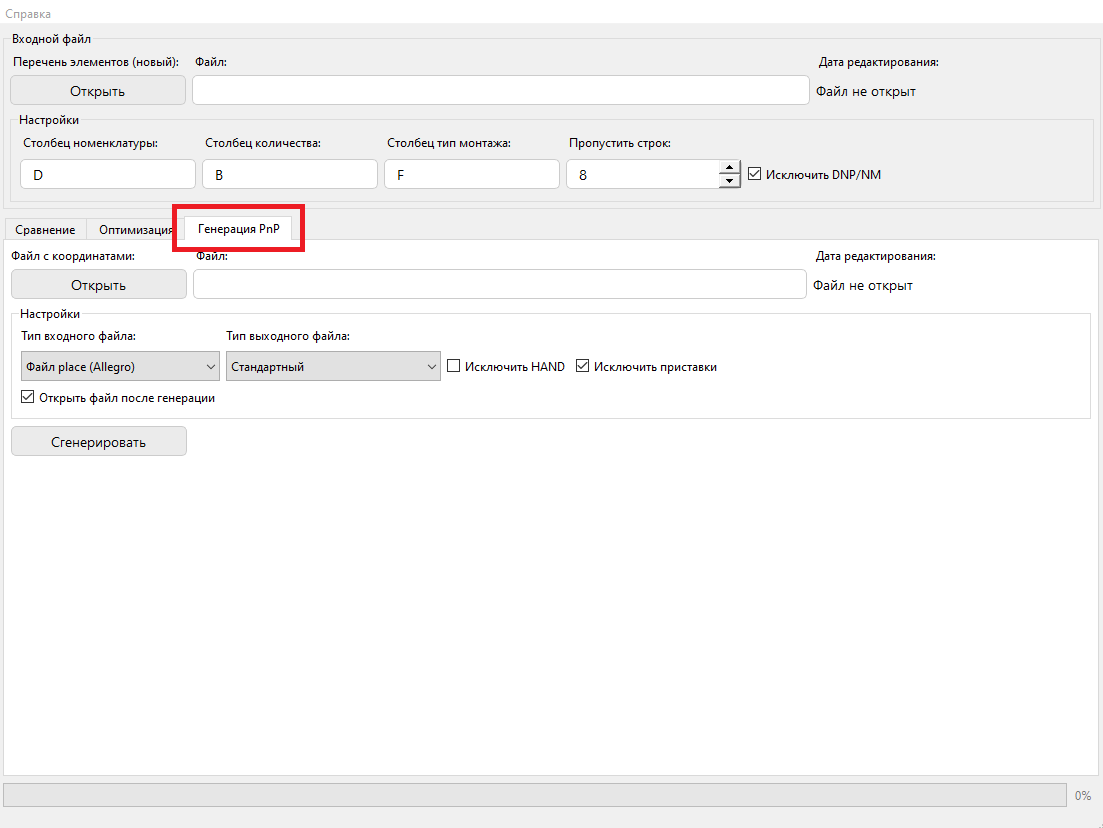
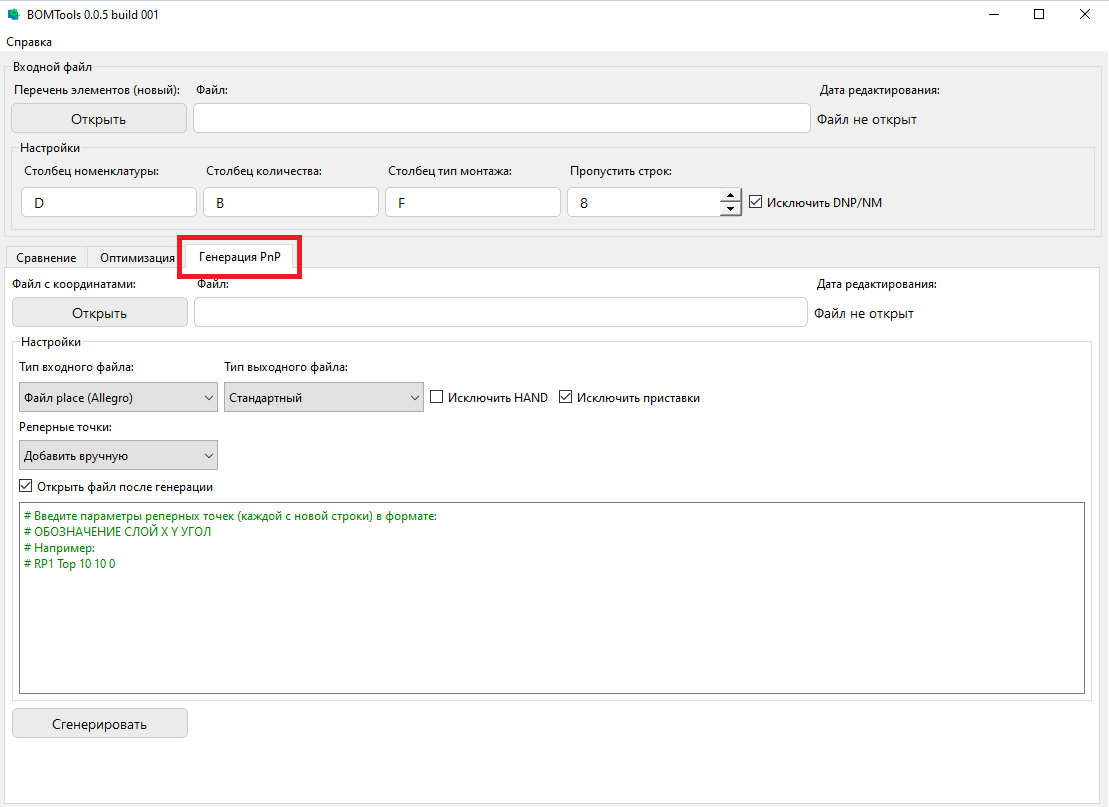
doc: help updated

diff --git a/help/help.html b/help/help.html
@@ -3,7 +3,7 @@
 <head>
     <meta charset="UTF-8">
     <meta name="viewport" content="width=device-width, initial-scale=1.0">
-    <title>Справка по функционалу программы</title>
+    <title>Руководство пользователя</title>
     <style>
         :root {
             --dark-blue: #1e293b;
@@ -167,6 +167,12 @@
 				<li>Выбрать необходимые настройки</li>
 					<img src="images/set2.png" alt="Скриншот set2" width="100%" style="display: block; margin-bottom: 20px;">
 					<div><strong>"Исключить HAND"</strong> - исключает из итогового файла ручной монтаж. <strong>"Исключить приставки"</strong> - исключает из итогового файла приставки типа "C-", "D-", "R-" и подобные.</div><br>
+                    <div>Программа поддерживает добавление реперных точек в выходной файл. Это возможно вручную (указав их в текстовом поле) либо автоматически. Чтобы добавить вручную реперные точки, запишите их в текстовом поле, каждое с новой строки:</div>
+                    <img src="images/rep1.png" alt="Скриншот rep1" width="60%" style="display: block; margin-bottom: 20px;">
+                    <div>Чтобы экспортировать реперные точки, выберите пункт "Попробовать импортировать" и задайте маску обозначения:</div>
+                    <img src="images/rep2.png" alt="Скриншот rep2" width="60%" style="display: block; margin-bottom: 20px;">
+                    <div>Функция импорта работает только в режиме входого файла SiDeCo. Поиск производится в столбце <strong>"RefDes"</strong></div><br>
+
 				<li>Нажать кнопку </+strong>"Сгенерировать"</strong></li>
 					<img src="images/gen.png" alt="Скриншот gen" width="100%" style="display: block; margin-bottom: 20px;">
 					<div>Если чек-бокс "Открыть файл после генерации" активен, то отроется выходной файл, иначе он будет храниться в директории, где лежит файл спецификации.</div><br>

diff --git a/ui_form.py b/ui_form.py
@@ -921,7 +921,7 @@ class Ui_MainWindow(object):
     def retranslateUi(self, MainWindow):
         MainWindow.setWindowTitle(QCoreApplication.translate("MainWindow", u"MainWindow", None))
         self.action.setText(QCoreApplication.translate("MainWindow", u"\u041e \u043f\u0440\u043e\u0433\u0440\u0430\u043c\u043c\u0435", None))
-        self.help.setText(QCoreApplication.translate("MainWindow", u"\u0421\u043f\u0440\u0430\u0432\u043a\u0430", None))
+        self.help.setText(QCoreApplication.translate("MainWindow", u"\u0420\u0443\u043a\u043e\u0432\u043e\u0434\u0441\u0442\u0432\u043e \u043f\u043e\u043b\u044c\u0437\u043e\u0432\u0430\u0442\u0435\u043b\u044f", None))
         self.groupBox.setTitle(QCoreApplication.translate("MainWindow", u"\u0412\u0445\u043e\u0434\u043d\u043e\u0439 \u0444\u0430\u0439\u043b", None))
         self.label_3.setText(QCoreApplication.translate("MainWindow", u" \u0424\u0430\u0439\u043b:", None))
         self.first_file.setText("")

diff --git a/mainwindow.py b/mainwindow.py
@@ -1,5 +1,5 @@
 VERSION = "0.0.5"
-BUILD = "001"
+BUILD = "002"
 DATE = "20.06.2026"
 
 # This Python file uses the following encoding: utf-8
